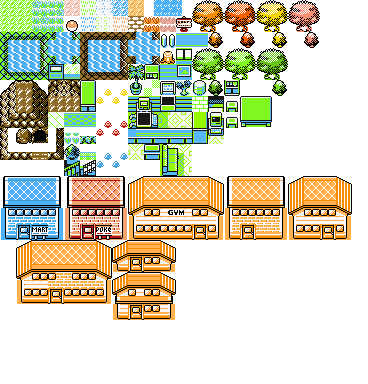
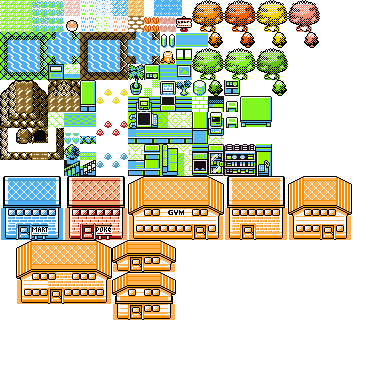
pokemart, tileMap edit

Changed region(s): [[0.4484, 0.375, 0.7473, 0.4688], [0.3288, 0.4062, 0.4484, 0.4688]]

diff --git a/MapEditor/main.cpp b/MapEditor/main.cpp
@@ -3,9 +3,9 @@
 
 int main()
 {
-	MapMaker makeMe("pokeTiles2.png", sf::Vector2u(16, 16), 800, 352);
-	makeMe.load("firstTown.dat");
+	MapMaker makeMe("pokeTiles2.png", sf::Vector2u(16, 16), 160, 144);
+	makeMe.load("pokeMart.dat");
 	makeMe.display();
-	makeMe.save("firstTown.dat");
+	makeMe.save("pokeMart.dat");
 	return 0;
 }
